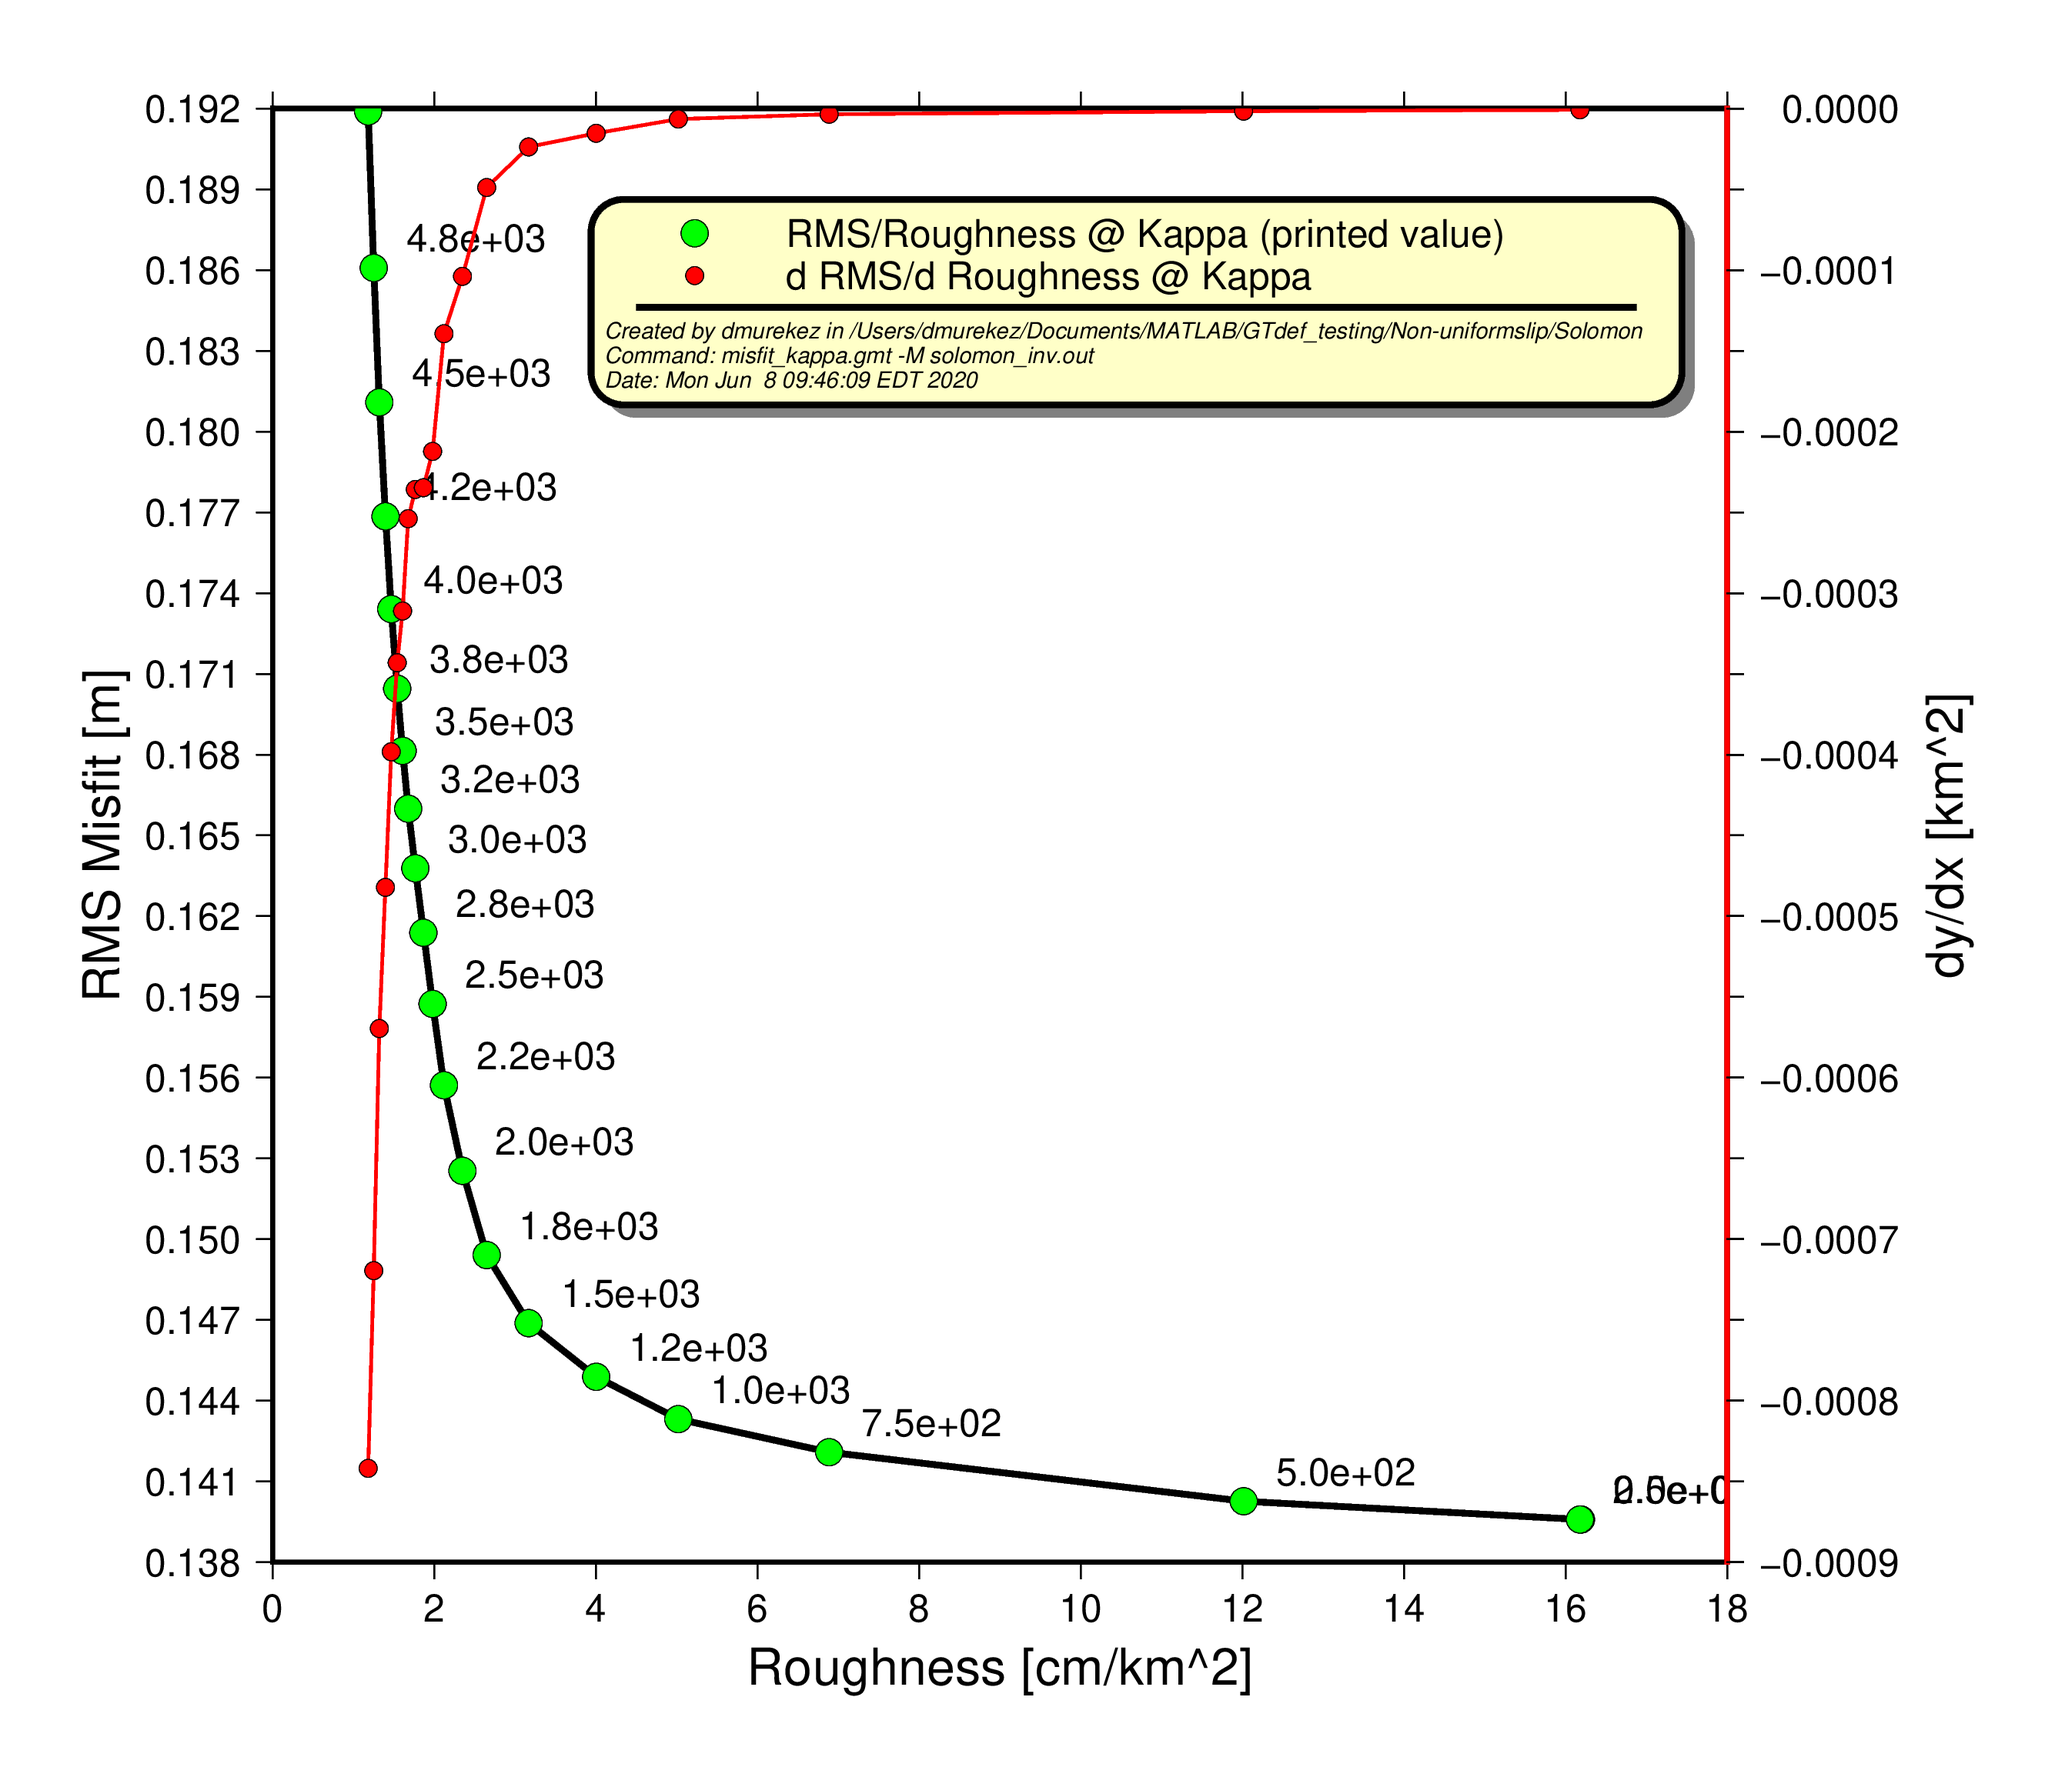
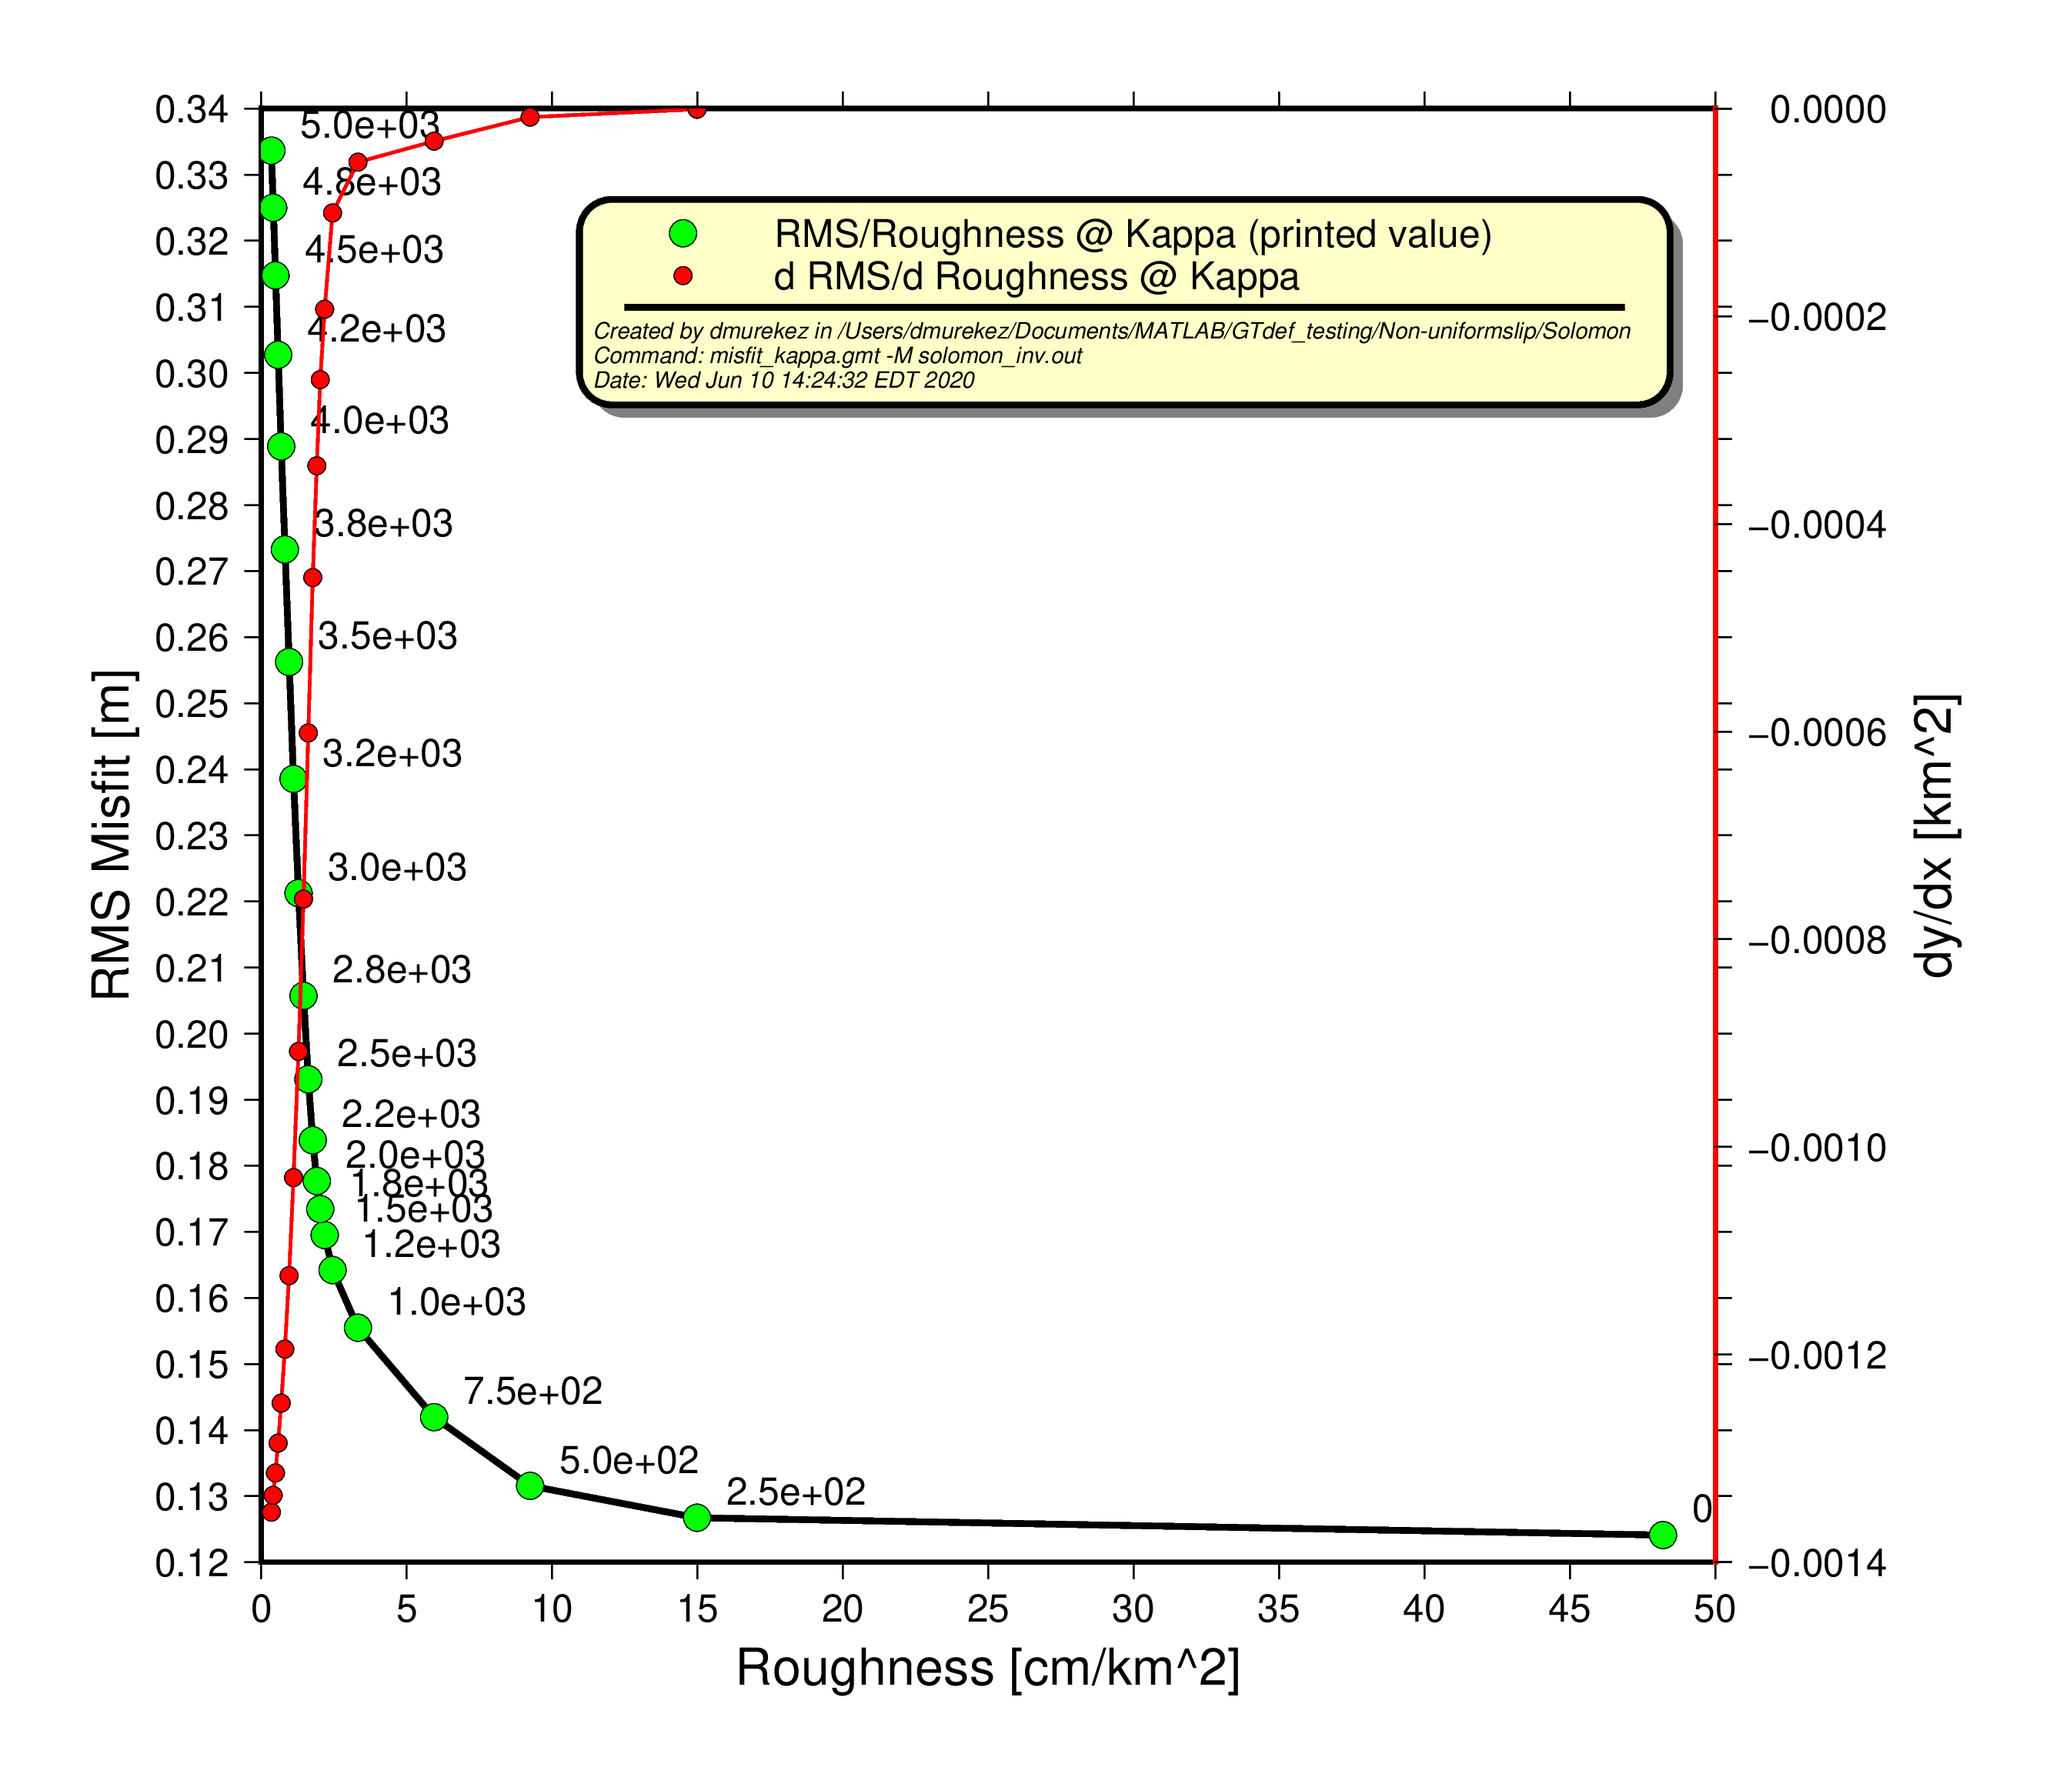
Updated Roughness_Misfit plott for non-uniformslip

diff --git a/GTdef/v3.2/documentation/GTdef_V3.2.html b/GTdef/v3.2/documentation/GTdef_V3.2.html
@@ -9,11 +9,12 @@
  <h1 class="left">Dislocation Modeling using GTdef(V_3.2)</h1>
 </td></tr>
 <tr><td align=top>
+<center>
 <section id="TOC">
-<ol>
-<h2>Sections of the GTdef model</h2>
+<h2 >Sections of the GTdef model</h2>
 <font size=-2pt>(Clicking on section heads will return to the Table of Contents)</font>
-<H2>
+<H2 align='center'>
+  <ol class = "center">
 <li> <a href = "#INTRO"> Basic Introduction</a></li>
 <li> <a href = "#DL"> GTdef Code and How to Download it </a></li>
 <li> <a href = "#INPUT"> The Input File</a></li>
@@ -23,9 +24,10 @@
 <li> <a href = "#cbt"> Checkerboard Testing </a></li>
 <li> <a href = "#gf"> Ingesting External Green's Functions</a></li>
 <li> <a href = "#ref"> References</a></li>
-</H2>
 </ol>
+</H2>
 </section>
+</center>
 
 <ol>
 <section id="INTRO">
@@ -486,10 +488,10 @@ After using your pointer to move around your model appropriately, your result sh
 <div class="code-wrapper"> <pre>
 kappa 2 0  5000 11
 </pre></div>
-		<li> Setup your fault to now have 12 subfaults, 4 patches along-strike and 3 patches along-dip.
+		<li> Setup your fault to now have 70 subfaults, 7 patches along-strike and 10 patches along-dip.
 <div class="code-wrapper"> <pre>
 <c>#fault type name   lon       lat     z1  z2    len    str    dip     ss   ds    ts    ss0  ssX    ds0  dsX    ts0 tsX    Nd  Ns</c>
- fault  1   slm    157.0990  -8.6920  0  5200  50000  125.0  158.0   0    0.1   0     0    0      0    100    0   0      3   4
+ fault  1   slm    157.0990  -8.6920  0  5200  50000  305.0  22.0   0    0.1   0     0    0      0    100    0   0      7   10
 </pre> </div>
 		<li> Invert, and explore your results.  Using <a href="plotting/misfit_kappa.gmt"> misfit_kappa.gmt</a>, try plotting misfit vs. roughness to see how your choices in kappa affect these results. Looking at the L-curve, the 4th lowest kappa value is optimal for this example data set.
       <img src="files/misfit_kappa_solomon_inv.png" width="700px">
@@ -522,7 +524,7 @@ kappa 2 0  5000 11
 		to recreate the model.
 	<ol type="i">
 		<li>Create an input model with subfaults that are approximately as large as characteristic changes you
-		observe in your solutions.  Each subfault alterna/tes between 0 and 1 unit of slip.
+		observe in your solutions.  Each subfault alternates between 0 and 1 unit of slip.
 		<li>Run a forward model, and predict the deformation at each of the sites you used for your original inversion.
 		<li>If you have error information add these values so they fractionallly scale with the difference between your
 		original data and their error. (e.g 10 cm error for 50 cm original displacement) should now scale to 1 cm error
@@ -562,7 +564,9 @@ kappa 2 0  5000 11
 <center>
 <hr size=3 color=black ><!---------------------------------------------------------------------------------------->
    <font size=2 color=darkblue> <I>murekezi<IMG src=http://geophysics.eas.gatech.edu/anewman/pics/at_10.png>gatech.edu</I>, <I>anewman<IMG src=http://geophysics.eas.gatech.edu/anewman/pics/at_10.png>gatech.edu</I></font> | <font size=2 color=darkblue><I>Updated:
-Tue Jun  9 11:23:27 EDT 2020
+     <script language="Javascript">
+     document.write(document.lastModified);
+     </script>
    </I></font>
    </center>
 </td> </tr>

diff --git a/GTdef/v3.2/documentation/simple.css b/GTdef/v3.2/documentation/simple.css
@@ -29,6 +29,13 @@ li {
 /*li p {
 	display: inline;
 } */
+H2 {
+	font-size: 16pt;
+	.center {
+  text-align: center;
+  list-style-position: inside;
+}
+}
 
 h1 {
 	font-size: 16pt;
